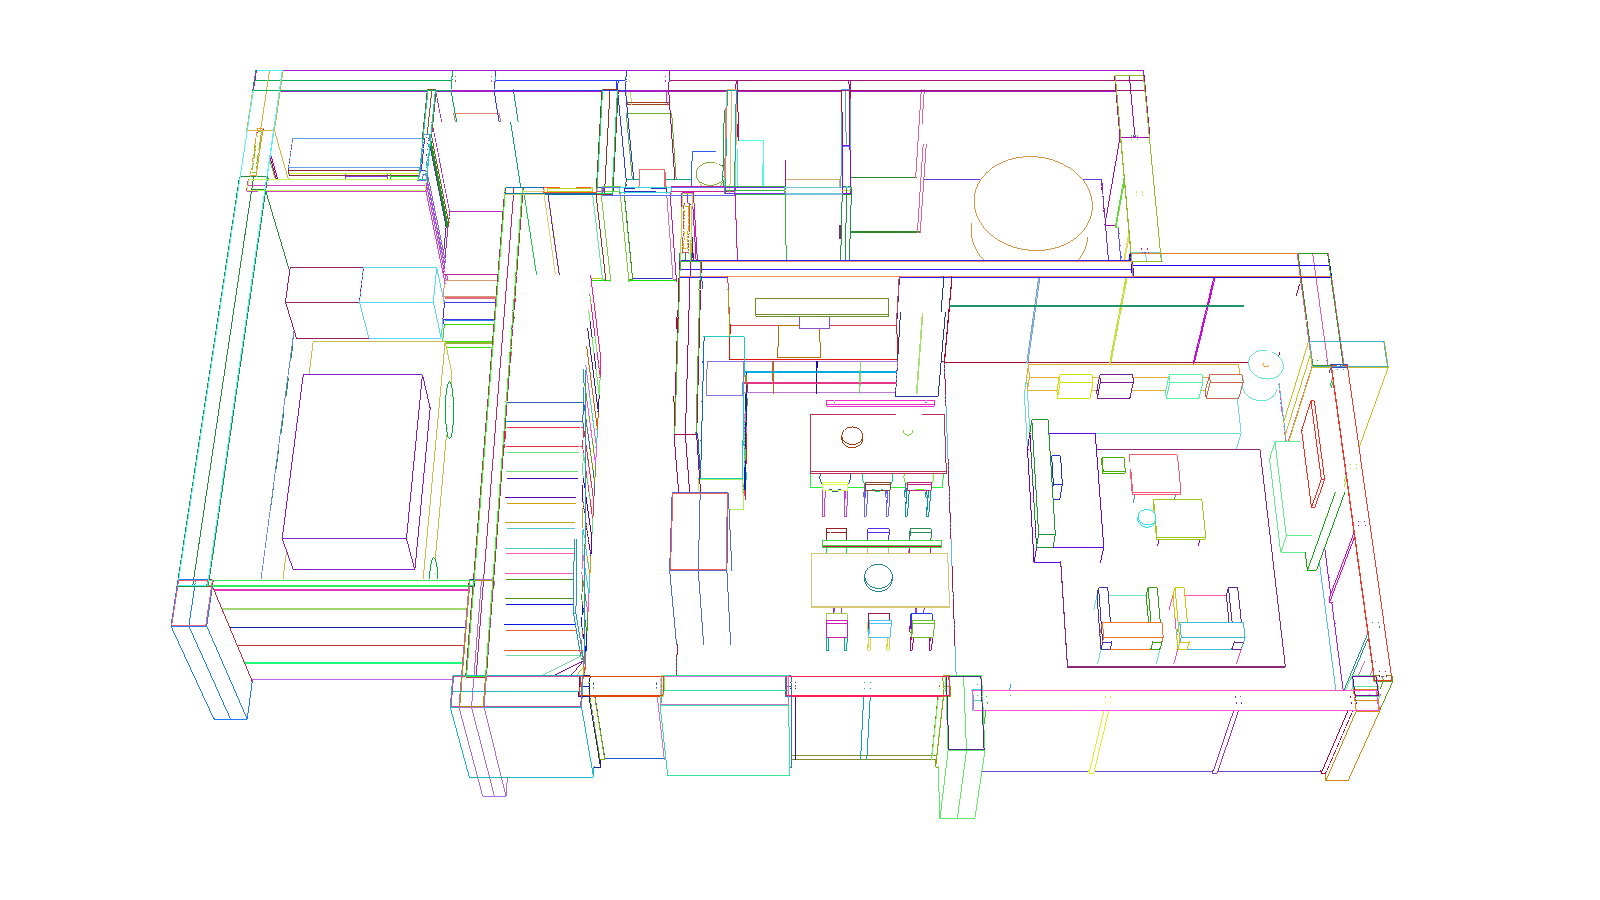
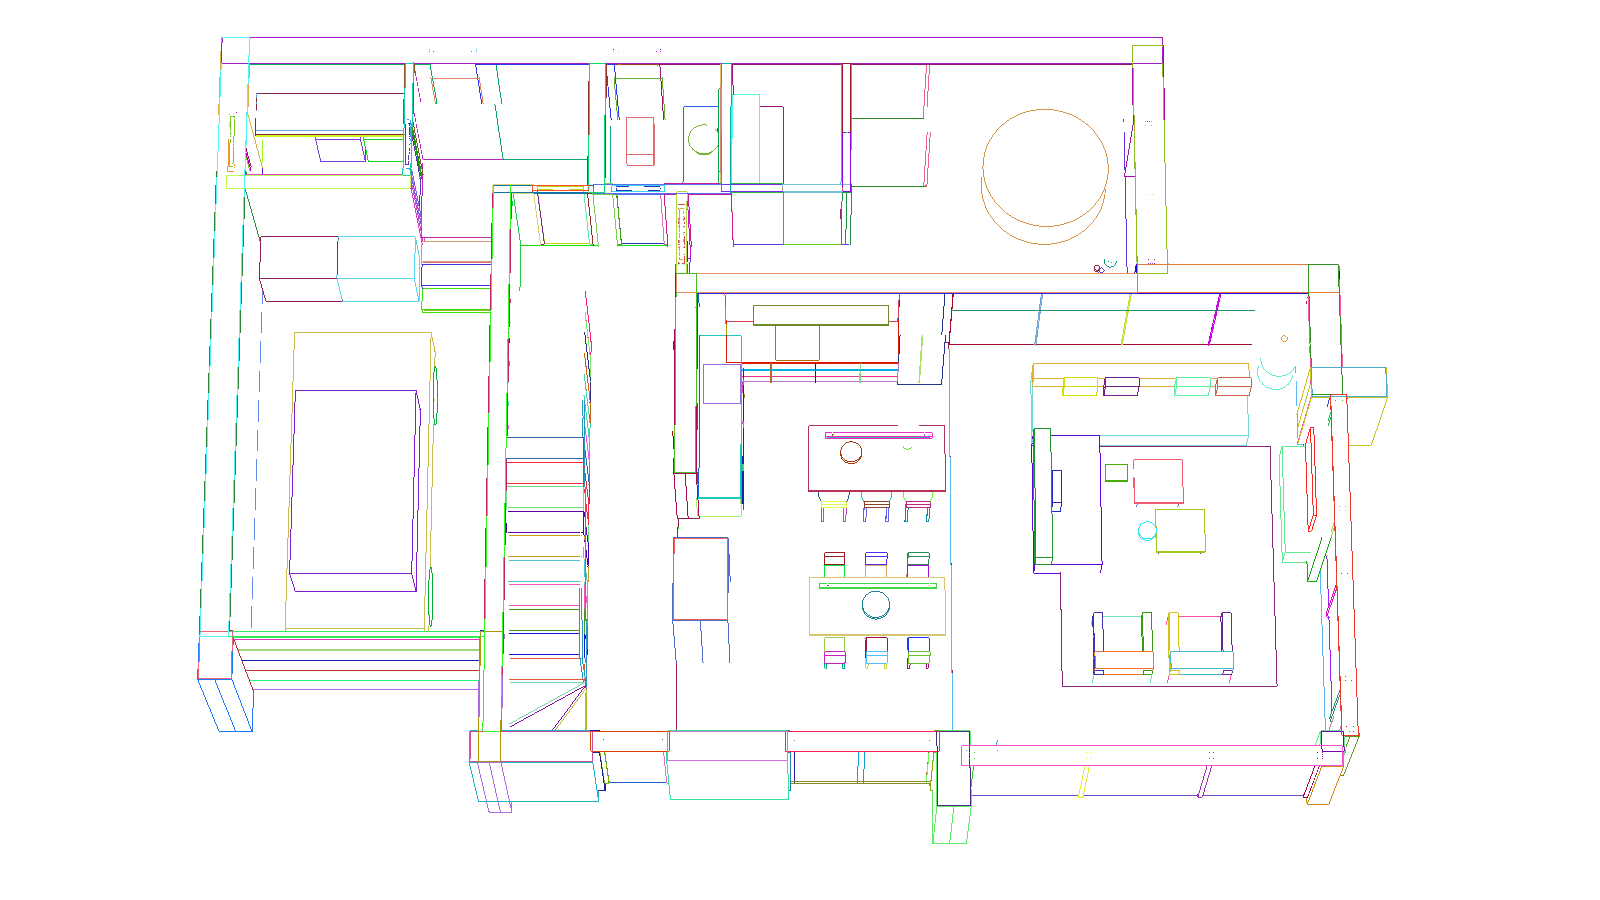
3D floor plan type 1 ground: near-top-down long-lens camera (north up, matches the drawing), depth-precision near/far, nothing outside the walls
Claude-Session: https://claude.ai/code/session_01ETmbUPpvTDduvuaab54EVi

diff --git a/luxury-render/engine/scene.js b/luxury-render/engine/scene.js
@@ -416,7 +416,7 @@ export function pointInPoly([x, y], poly) {
 // Two-point perspective: camera stays level (verticals stay vertical, like a
 // real arch-viz shift lens); framing up/down is done with lens shift.
 export function makeCamera(c, W, H) {
-  const cam = new THREE.PerspectiveCamera(10, W / H, 5, 8000);
+  const cam = new THREE.PerspectiveCamera(10, W / H, c.near || 5, c.far || 8000);   // far 3D-floor-plan cameras set near/far for depth precision
   const [px, py, pz] = c.pos, [tx, ty] = c.look;
   cam.position.set(px, pz, py);
   cam.up.set(0, 1, 0);
